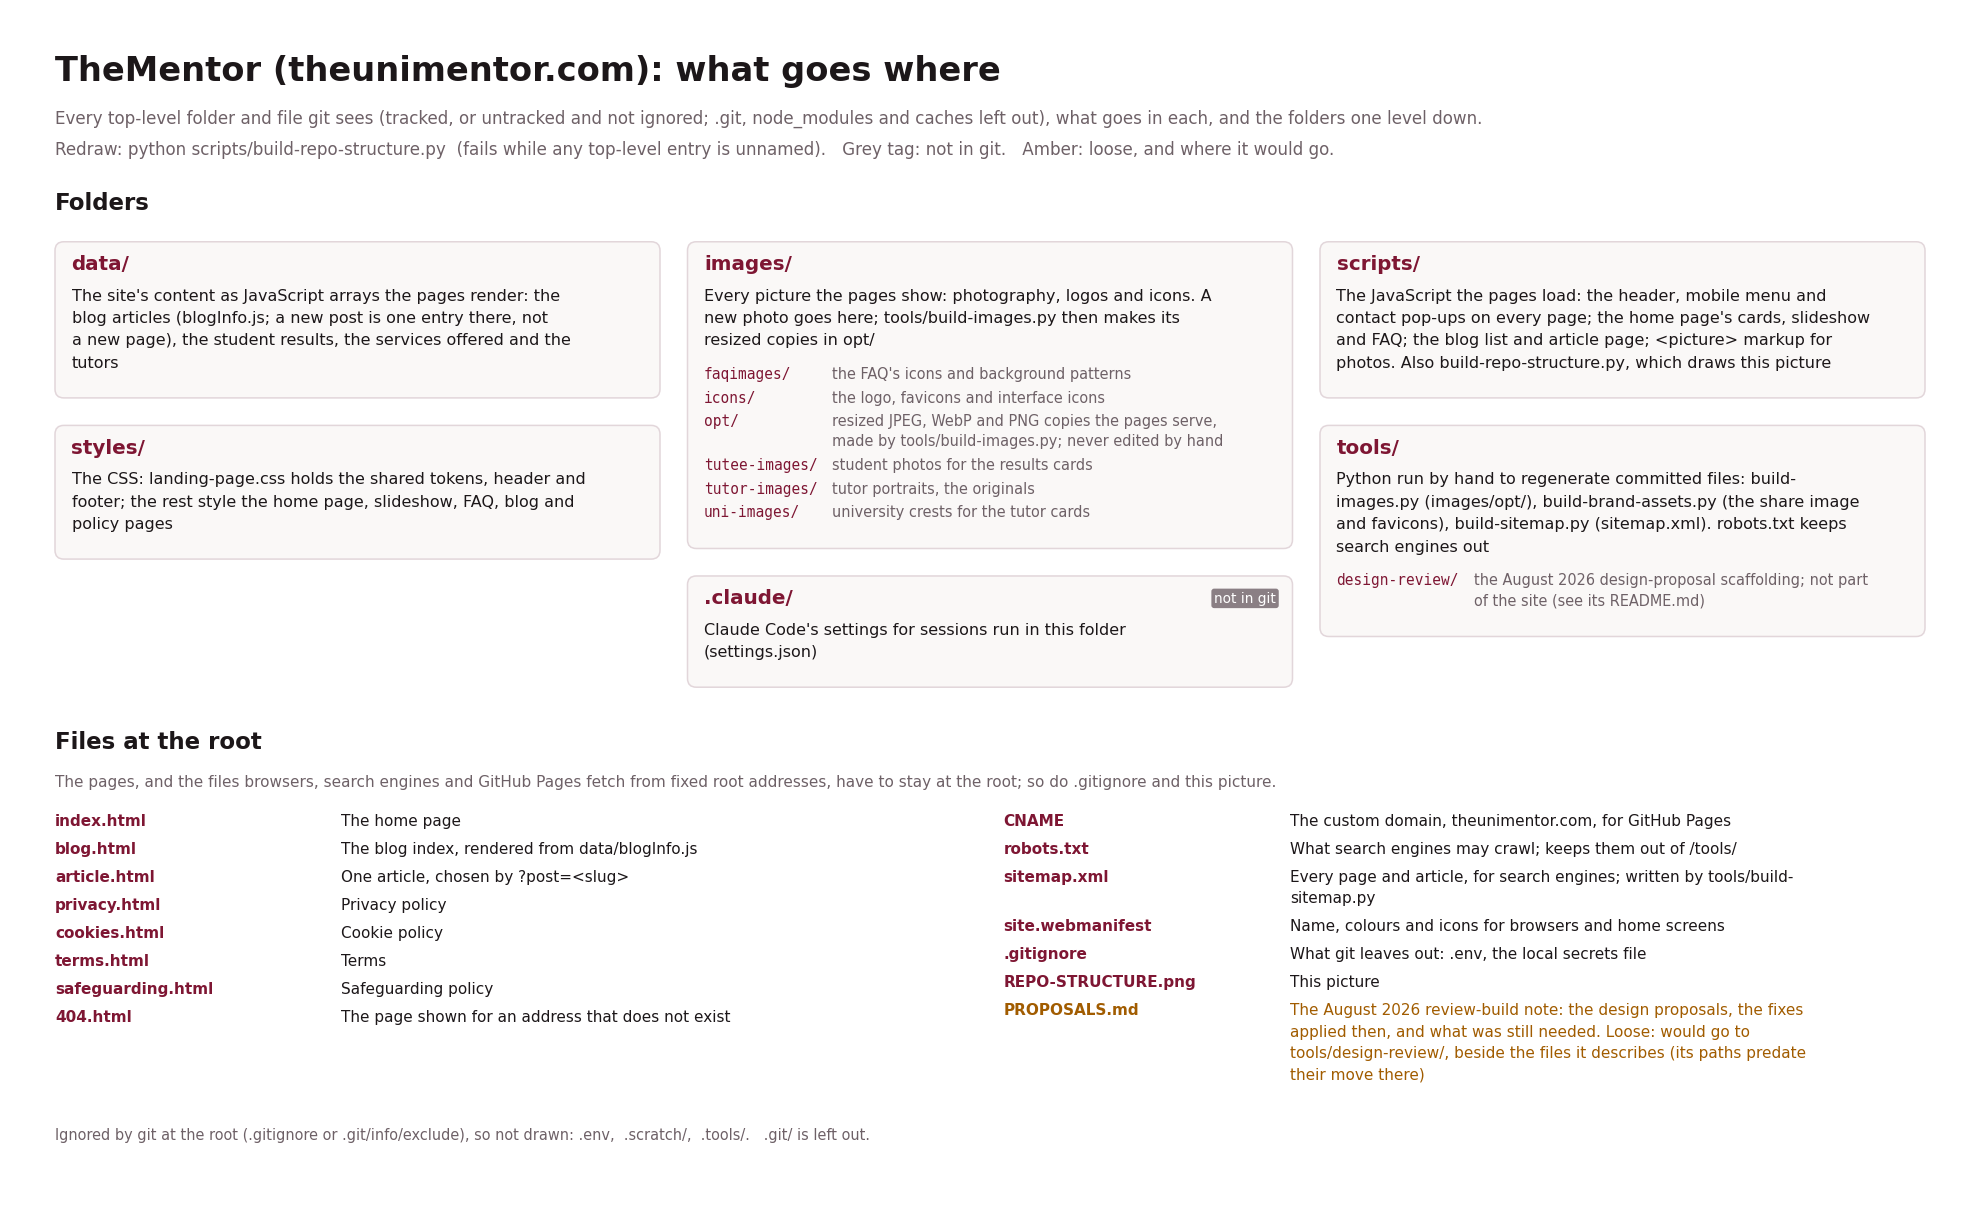
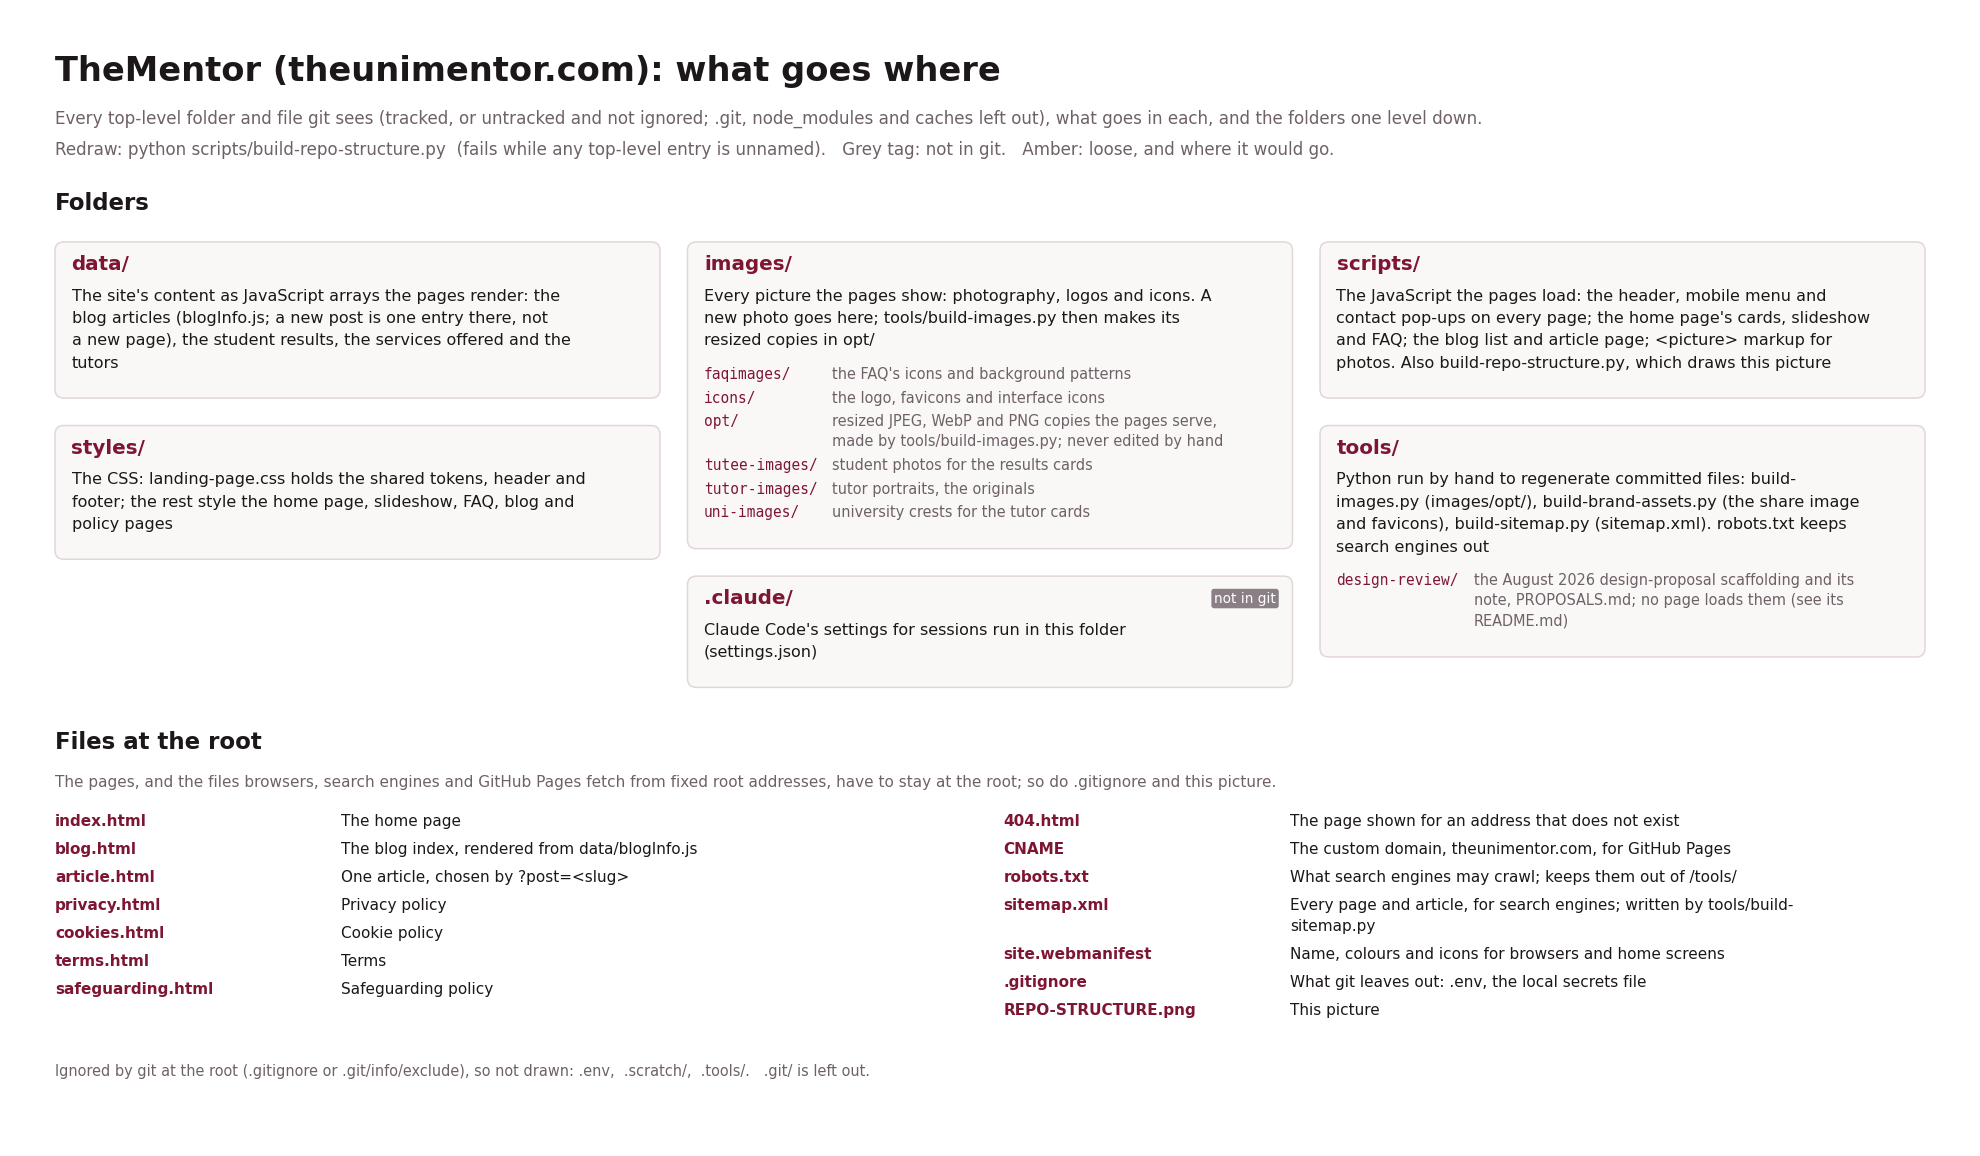
Move PROPOSALS.md into tools/design-review/, beside the files it describes
Its three stale paths (scripts/proposals.js, styles/proposals.css and
styles/institutional.css, all moved there in e8be5d7) now name
tools/design-review/. A note at its top dates the move and says the rest is
as written in August: no page loads those files now. The folder's README.md
links to it. Nothing else linked to it except the structure script, which no
longer lists it as a root file or as loose; the picture is redrawn and its
check passes with nothing amber.

diff --git a/scripts/build-repo-structure.py b/scripts/build-repo-structure.py
@@ -62,8 +62,9 @@ SUBFOLDERS = {
     'images/tutee-images': 'student photos for the results cards',
     'images/uni-images': 'university crests for the tutor cards',
     'images/faqimages': "the FAQ's icons and background patterns",
-    'tools/design-review': 'the August 2026 design-proposal scaffolding; not '
-                           'part of the site (see its README.md)',
+    'tools/design-review': 'the August 2026 design-proposal scaffolding and its '
+                           'note, PROPOSALS.md; no page loads them (see its '
+                           'README.md)',
 }
 
 # Root files, in the order they are drawn.
@@ -83,16 +84,12 @@ FILES = {
     'site.webmanifest': 'Name, colours and icons for browsers and home screens',
     '.gitignore': 'What git leaves out: .env, the local secrets file',
     'REPO-STRUCTURE.png': 'This picture',
-    'PROPOSALS.md': 'The August 2026 review-build note: the design proposals, '
-                    'the fixes applied then, and what was still needed',
 }
 
 # Entries that sit at the root but belong elsewhere, and where each would go;
-# drawn in amber. Marked 2026-10-14; nothing has been moved yet.
-LOOSE = {
-    'PROPOSALS.md': 'would go to tools/design-review/, beside the files it '
-                    'describes (its paths predate their move there)',
-}
+# drawn in amber. Empty since 2026-10-14, when PROPOSALS.md moved to
+# tools/design-review/.
+LOOSE = {}
 
 
 def git_paths(*args):

diff --git a/tools/design-review/PROPOSALS.md b/tools/design-review/PROPOSALS.md
@@ -1,5 +1,11 @@
 # Review build
 
+> The August 2026 review-build note. It sat at the repository root until
+> 14 October 2026, when it moved here beside the files it describes and its
+> paths were updated to their places now. The rest is as written then: no page
+> loads these files any more, so the Review panel below no longer appears.
+> [README.md](README.md) says what was adopted.
+
 Two things are in this repo at once:
 
 1. **Fixes that are already applied** — corrections with no design judgement in
@@ -24,9 +30,9 @@ The two waves are mutually exclusive — they answer the same questions
 differently — so ticking anything in one group clears the other. **Reset** goes
 back to what is committed.
 
-`DEV_MODE` at the top of `scripts/proposals.js` is `false` — the deployed
-setting. With it off the file returns immediately and renders nothing, so the
-panel will not appear. **Set it back to `true` to review, and to `false` again
+`DEV_MODE` at the top of `tools/design-review/proposals.js` is `false` — the
+deployed setting. With it off the file returns immediately and renders nothing,
+so the panel will not appear. **Set it back to `true` to review, and to `false` again
 before deploying.**
 
 ## Choosing
@@ -188,8 +194,8 @@ are still not ready to publish.
 
 ## Wave two — the institutional system
 
-`styles/institutional.css`, scoped entirely to `body.inst`. With the class absent
-the file changes nothing.
+`tools/design-review/institutional.css`, scoped entirely to `body.inst`. With the
+class absent the file changes nothing.
 
 | Toggle | What it does |
 |---|---|
@@ -206,7 +212,7 @@ the file changes nothing.
 
 Wave two absorbs the intent of `p02`, `p03`, `p04`, `p05`, `p10`, `p11`, `p12`,
 `p13` and `p14`. If you adopt it, those become dead code and can be deleted
-along with `styles/proposals.css`.
+along with `tools/design-review/proposals.css`.
 
 `p18` (WhatsApp as a labelled button) is **not** in wave two and is still worth
 doing on its own — the floating bubble overlaps body copy on phones.
@@ -252,19 +258,19 @@ doing on its own — the floating bubble overlaps body copy on phones.
 ## Files
 
 ```
-styles/institutional.css   wave two
-styles/proposals.css       wave one
-styles/policy.css          the four policy documents
-scripts/proposals.js       the review panel — DEV_MODE
-scripts/siteChrome.js      header scroll state, in-page scrolling, placeholder guard
-scripts/responsiveImage.js <picture> markup for script-rendered photos
-tools/build-images.py      regenerates images/opt/
-tools/build-brand-assets.py  regenerates the share image and icons
-tools/build-sitemap.py     regenerates sitemap.xml
+tools/design-review/institutional.css  wave two
+tools/design-review/proposals.css      wave one
+styles/policy.css                      the four policy documents
+tools/design-review/proposals.js       the review panel — DEV_MODE
+scripts/siteChrome.js                  header scroll state, in-page scrolling, placeholder guard
+scripts/responsiveImage.js             <picture> markup for script-rendered photos
+tools/build-images.py                  regenerates images/opt/
+tools/build-brand-assets.py            regenerates the share image and icons
+tools/build-sitemap.py                 regenerates sitemap.xml
 ```
 
 ### To remove the scaffolding
 
 Once a wave is chosen and folded into the main stylesheets, delete:
-`scripts/proposals.js`, the losing stylesheet, the `REVIEW ONLY` link tags in
-all eight HTML files, and the markup for whatever was not kept.
+`tools/design-review/proposals.js`, the losing stylesheet, the `REVIEW ONLY`
+link tags in all eight HTML files, and the markup for whatever was not kept.

diff --git a/tools/design-review/README.md b/tools/design-review/README.md
@@ -9,6 +9,10 @@ is downloaded by a visitor, and `robots.txt` disallows `/tools/`.
 | `proposals.js` | The in-browser toggle panel for switching them on and off. |
 | `institutional.css` | The full institutional design system, gated on `body.inst`. Never adopted. |
 
+[`PROPOSALS.md`](PROPOSALS.md) is the August 2026 note written during the
+review: the two waves, the fixes applied then, and what was still needed. It sat
+at the repository root until 14 October 2026.
+
 ## What was adopted
 
 Four proposals were live on every page (`<body class="p01 p05 p11 p14">`). They
